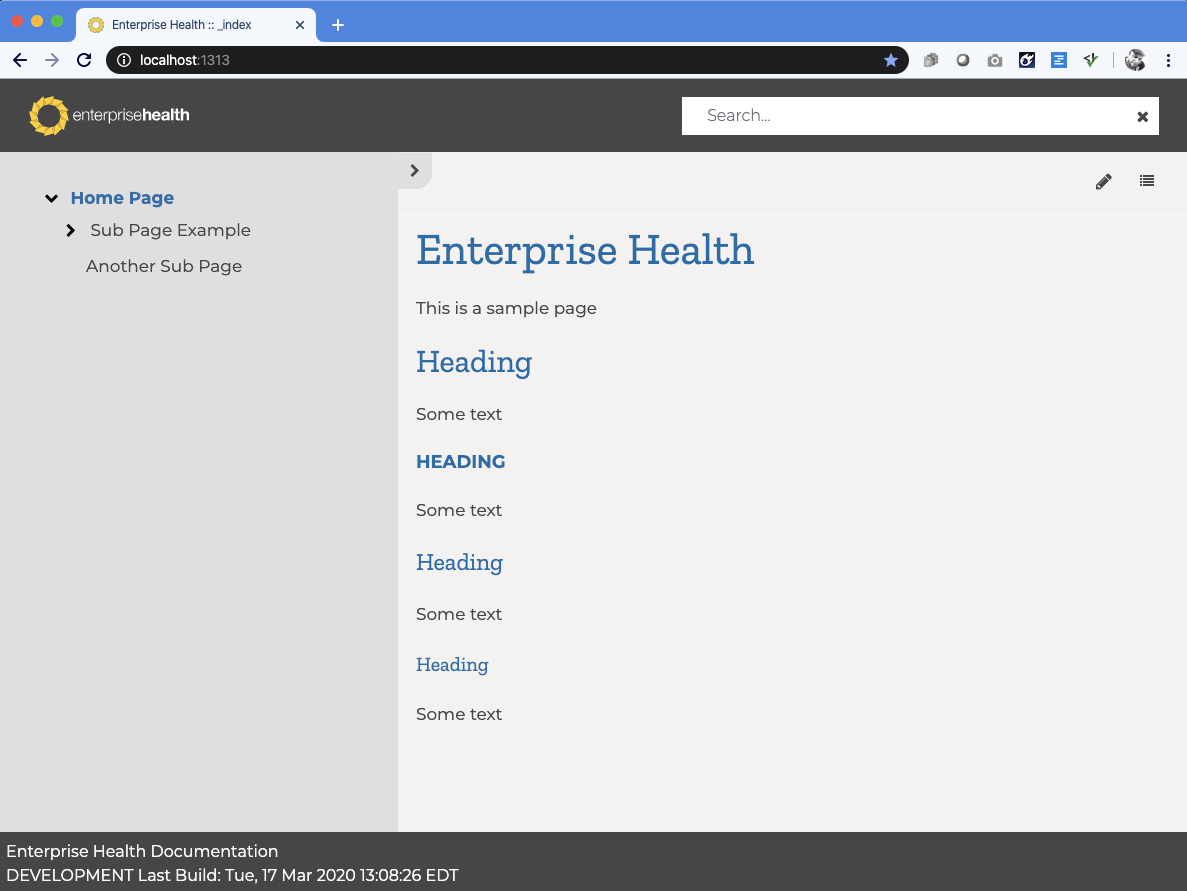
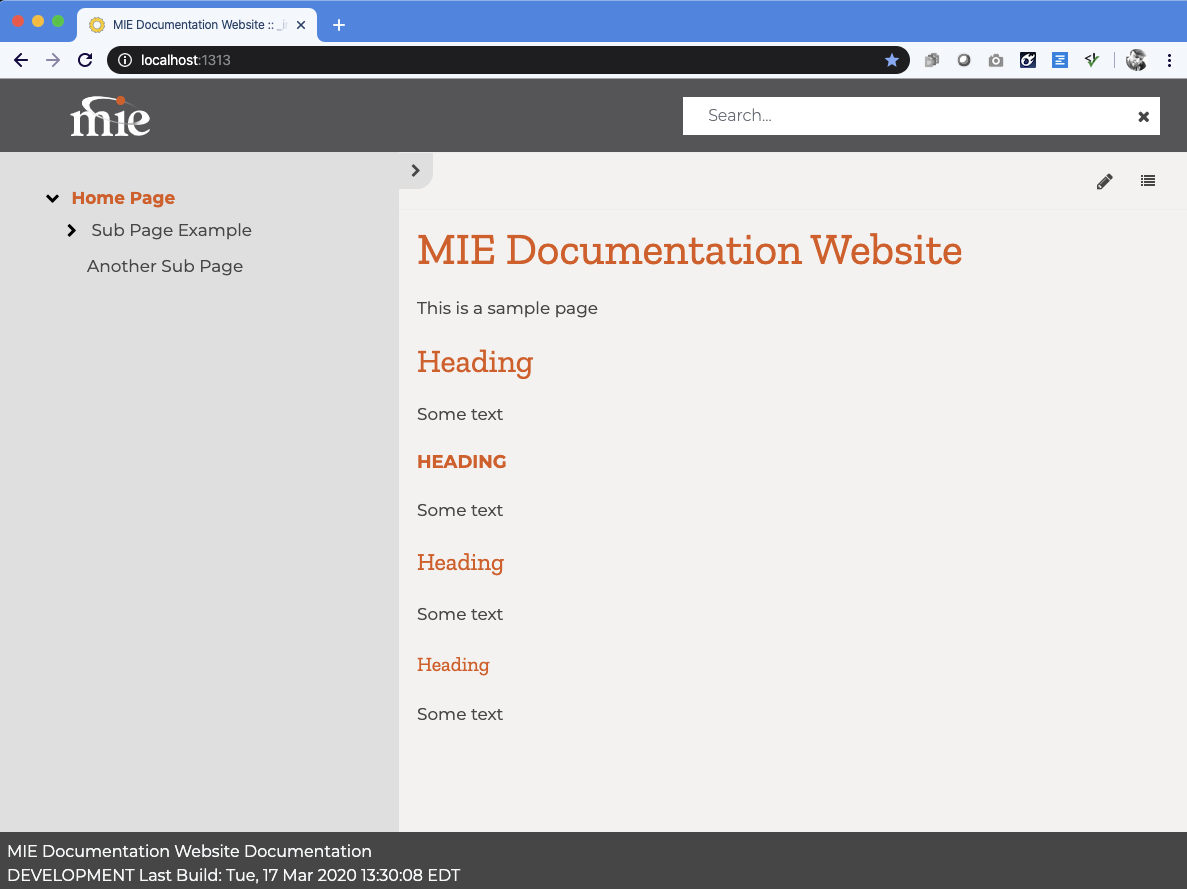
made sample website screenshot and config generic

diff --git a/themes/wc-eh-docs/assets/scss/brand-mie.scss b/themes/wc-eh-docs/assets/scss/brand-mie.scss
@@ -1,2 +1,17 @@
 // Local Brand Overrides
 // LOCAL PLACEHOLDER -- KEEP THIS DOCUMENT!
+
+$darkorange: #e46020;
+$orange: #f47825;
+
+$primary: $darkorange;
+$secondary: $orange;
+
+
+$navbar-bg: $darkgrey4;
+
+h2 {
+  color: #000000;
+  font-size: 120px;
+  ;
+}
